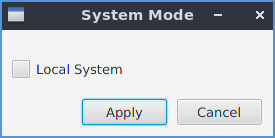
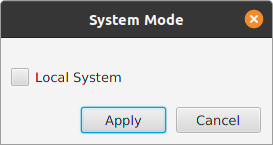
update README and screens

Changed region(s): [[0.0, 0.0, 1.0, 1.0], [0.293, 0.6957, 0.6154, 0.9275], [0.7619, 0.087, 0.8205, 0.1159]]

diff --git a/README.md b/README.md
@@ -31,18 +31,102 @@ in MARVEL, for the execution of WordCount.
 
 1. **Configuration Screen**:
 
-![image info](./screens/01_config_local.png)
+After having chosen the system mode (local or distributed), the following screen 
+is shown so that the user can select and change the input related parameters. The user
+can select an input file and click on the **Generate** button. If no input is specified,
+the **Generate** button creates a random input with the value types specified. 
+
+Note that some of the parameters fields are only available when the distributed mode
+is selected.
+
+![image info](./screens/01_local_config.png)
 
 2. **Environment Screen**:
 
-![image info](./screens/02_start_local.png)
+By selecting the local mode, there is no parallel or distributed execution.
+The interface shows the input data structure and its content as fields. Upon the
+data structure is reported the function applied to have that values. The first data 
+structure is idenfied by the *Generate* function.
+
+In this view the user can choose a function to apply among the functions available 
+inside the **Map** and **Reduce** drop-down lists. The chosen function is applied 
+on the last data structure, by clicking on the **Run** button.
+
+In order to finalize the operation, the **Done** button must be pressed before 
+applying an additional operation. Then, an additional item is added to the navigation
+bar on the right end of the view. The navigation bar can be used to comment previous 
+steps and, eventually, to override or re-run some of them.
+
+The **Zoom** and **Speed** sliders can be useful to, respectively, focus on some points
+or slow-down the execution of some operations to better appreciate the effects.
+
+![image info](./screens/02_local_start.png)
+
+3. **Split Function (Map Transformation)**:
+
+After having described the interface, we can focus on the WordCount problem.
+
+The first step requires to split the fields according to the space character, so that
+each line is decomposed by the words contained in it. **MARVEL** makes available a 
+**split** transformation that does exactly this job. For each line, the function 
+splits it in words and returns a new record for each word, associating it with the 
+value 1, often used in lots of tasks.
+
+After having chosen the transformation, the user must click on the **Run** button, then
+the animation begins, producing the output data structure.
+
+![image info](./screens/03_local_split.png)
+
+At the end of the animation, the **Done** button is available, as shown in the 
+previous figure.
+
+The following figure shows the result of clicking on that button. The *split* label is 
+displayed upon the resulting data structure and the *split* item is added to the 
+navigation bar on the right.
+
+![image info](./screens/04_local_split_done.png)
+
+3. **Sum Function (Reduce Transformation)**:
+
+After the map phase, the words have to be counted aggregating them, by summing the
+values associated to the same key.
+
+**MARVEL** provides the **ReduceBykey + Sum** function available among the 
+*reduce* functions. In this case the last data structure contains no duplicated keys,
+since they have been aggregated.
+
+![image info](./screens/05_local_reduce_sum.png)
+
+Also in this case the pressure of the **Done** button produces the label upon the 
+resulting data struction and the item inside the navigation bar, but the label
+color is *red*. This metaphore is used to instruct the user that the performed operation
+is expensive in a distributed environment, i.e. involves moving data blocks among the
+workers.
+
+![image info](./screens/06_local_reduce_sum_done.png)
+
+In local mode is available a feature that allows to visualize the pipeline of operations
+performed to obtain a particular record of the selected data structure. By clicking on 
+the record, it is linked to the related records belonging to previous data structure.
+
+![image info](./screens/07_local_reduce_sum_line.png)
 
 ### Distributed Execution
 
 1. **Configuration Screen**:
 
-![image info](./screens/01_config_distr.png)
+![image info](./screens/01_distr_config.png)
 
 2. **Environment Screen**:
 
-![image info](./screens/02_start_distr.png)
+![image info](./screens/02_distr_start.png)
+
+3. **Split Function (Map Transformation)**:
+
+![image info](./screens/03_distr_split.png)
+![image info](./screens/04_distr_split_done.png)
+
+3. **Sum Function (Reduce Transformation)**:
+
+![image info](./screens/05_distr_reduce_sum.png)
+![image info](./screens/06_distr_reduce_sum_done.png)
